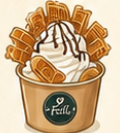
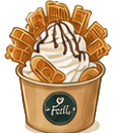
fix: fond transparent Foli's + newsletter "gang" sitewide
- public/lafolisup.png : fond crème détouré (flood-fill PNG transparent),
  s'affiche désormais proprement sur le dégradé soleil/peach de la box
- attente.html src ?v=6 (cache-bust)
- copy newsletter (attente.html + Newsletter.tsx) :
  "Les prochaines dates du gang Glaces en Seine ne circulent qu'entre initiés."
- bouton newsletter : "Je rejoins le gang"

diff --git a/public/attente.html b/public/attente.html
@@ -329,7 +329,7 @@ section + section{padding-top:24px}
 
     <!-- Signature : La Foli's -->
     <div class="foli-card">
-      <img class="foli-img" src="/lafolisup.png?v=5" alt="La Foli's — coupelle gaufre, chantilly, cubes croustillants" loading="lazy"
+      <img class="foli-img" src="/lafolisup.png?v=6" alt="La Foli's — coupelle gaufre, chantilly, cubes croustillants" loading="lazy"
         onerror="this.onerror=null;this.src='/lafolis.png';"/>
       <div class="foli-tx">
         <div class="foli-nm">La <span class="sig">Foli's</span></div>
@@ -515,12 +515,12 @@ section + section{padding-top:24px}
 <section class="wrap" style="padding-top:40px" aria-label="Newsletter">
   <div class="nl-card">
     <h3>📬 Le mail <span class="ac">du quai</span></h3>
-    <p>Spot lâché 1h avant. Motus. 🤐</p>
+    <p>Les prochaines dates du gang Glaces en Seine ne circulent qu'entre initiés.</p>
     <form class="nl-form" id="nlForm" novalidate>
       <input type="email" id="nlEmail" placeholder="ton@email.fr" required autocomplete="email"/>
       <input type="text" name="website" tabindex="-1" autocomplete="off"
         style="position:absolute;left:-9999px" aria-hidden="true"/>
-      <button type="submit" id="nlBtn">Embarque 🛶</button>
+      <button type="submit" id="nlBtn">Je rejoins le gang</button>
     </form>
     <div class="nl-msg" id="nlMsg" role="status" aria-live="polite"></div>
   </div>

diff --git a/components/Newsletter.tsx b/components/Newsletter.tsx
@@ -53,7 +53,8 @@ export function Newsletter() {
               📬 Le mail <span className="font-script text-cherry">du quai</span>
             </h2>
             <p className="mt-1.5 max-w-md text-[13.5px] leading-relaxed text-ink/60 sm:text-[14px]">
-              Spot lâché 1h avant. Motus. 🤐
+              Les prochaines dates du gang Glaces en Seine ne circulent
+              qu&apos;entre initiés.
             </p>
           </div>
 
@@ -86,7 +87,7 @@ export function Newsletter() {
                 >
                   {status === "loading"
                     ? <span className="mx-auto block h-4 w-4 animate-spin rounded-full border-2 border-cream/30 border-t-cream" />
-                    : "Embarque 🛶"}
+                    : "Je rejoins le gang"}
                 </button>
               </motion.form>
             ) : (
